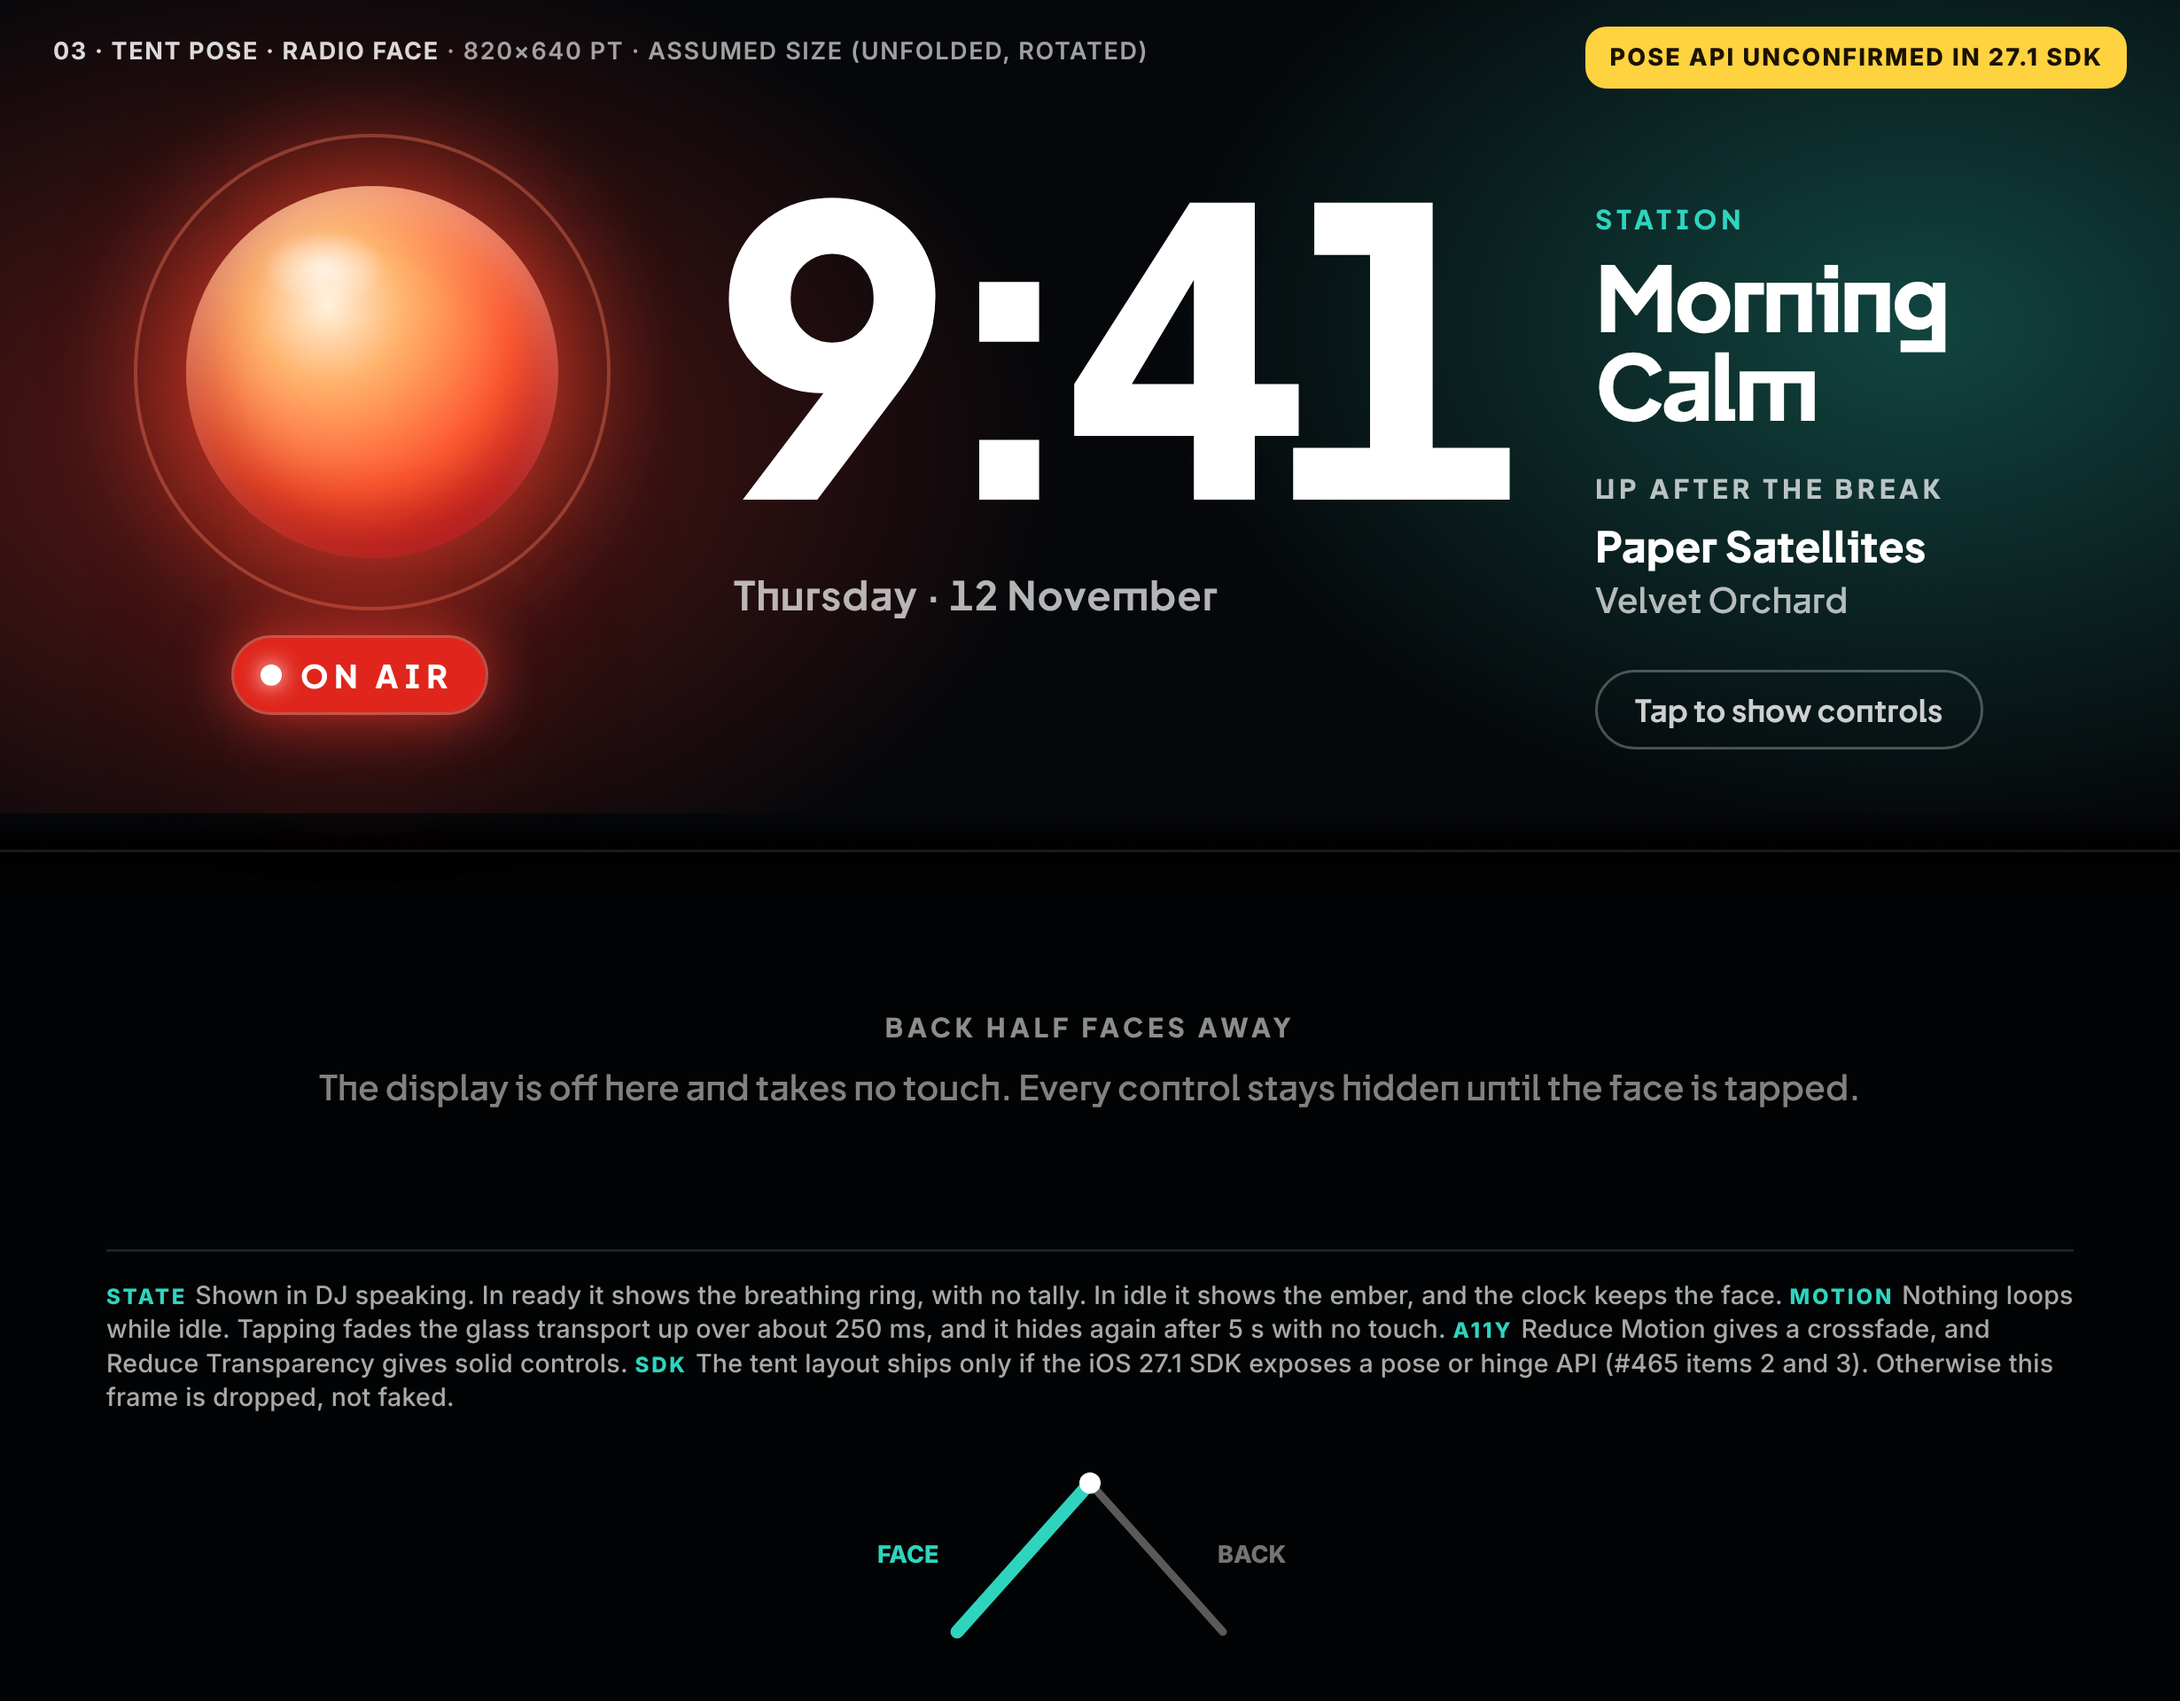
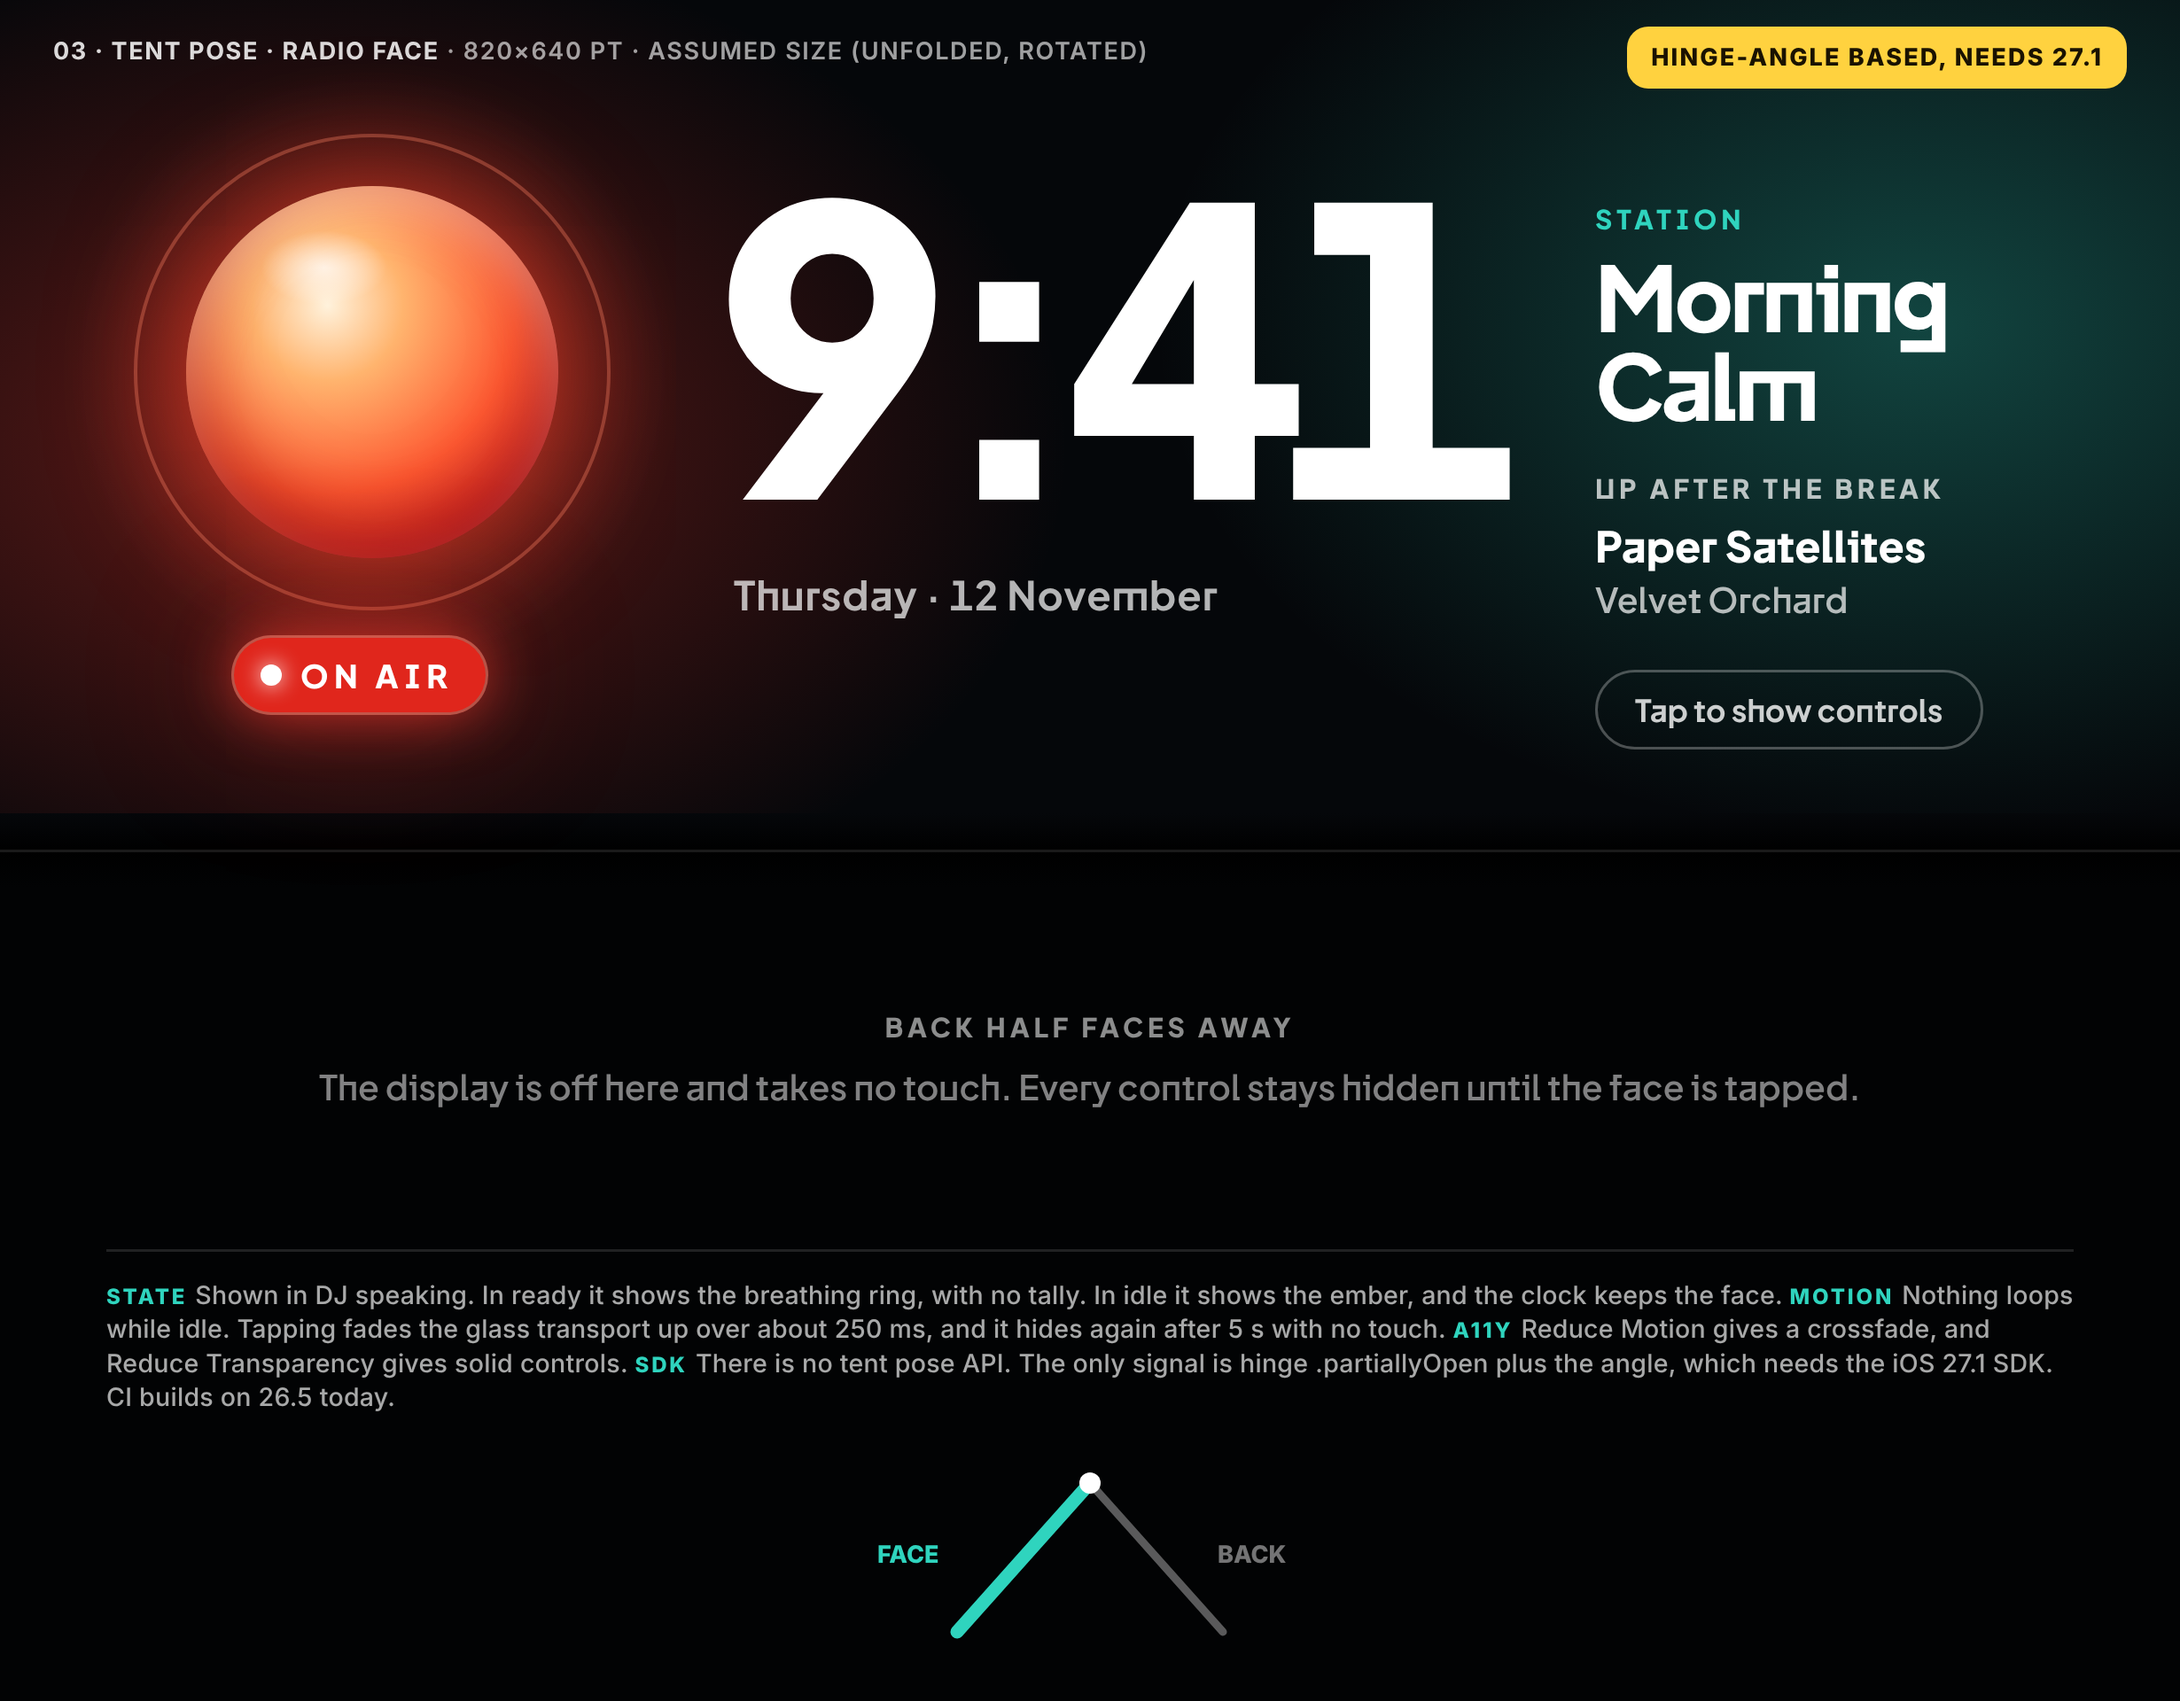
docs(design): #465 relabel tent as hinge-angle based, needs 27.1
Per Fry's SDK check (issuecomment-6842125472): no tent pose API; the
signal is hinge .partiallyOpen plus angle, 27.1 only. CI is on 26.5.
Contact sheet notes the vertical symbol bar also needs 27.1.

-Nova

Changed region(s): [[0.3398, 0.7812, 0.9577, 0.8125], [0.7106, 0.0, 0.9577, 0.0625], [0.0618, 0.8125, 0.2163, 0.8438]]

diff --git a/docs/mockups/465/src/f03.py b/docs/mockups/465/src/f03.py
@@ -5,7 +5,7 @@ b=[f'<div class="a" style="left:0;top:0;width:820px;height:306px;background:radi
    '<div class="a" style="left:0;top:319.5px;width:820px;height:1px;background:rgba(255,255,255,.10)"></div>',
    '<div class="a" style="left:0;top:334px;width:820px;height:306px;background:#020304"></div>',
    f'<div class="cap" style="left:20px;top:14px"><b>03 · Tent pose · radio face</b> · 820×640 pt · assumed size (unfolded, rotated)</div>',
-   f'<div class="flag" style="right:20px;top:10px">Pose API unconfirmed in 27.1 SDK</div>',
+   f'<div class="flag" style="right:20px;top:10px">Hinge-angle based, needs 27.1</div>',
    # orb + tally
    f'<div class="a" style="left:70px;top:70px">{orb("speaking",140)}</div>',
    f'<div class="a" style="left:88px;top:240px"><span class="tally"><i></i>ON AIR</span></div>',
@@ -27,7 +27,7 @@ b=[f'<div class="a" style="left:0;top:0;width:820px;height:306px;background:radi
    f'<span class="k">STATE</span>Shown in DJ speaking. In ready it shows the breathing ring, with no tally. In idle it shows the ember, and the clock keeps the face. '
    f'<span class="k">MOTION</span>Nothing loops while idle. Tapping fades the glass transport up over about 250 ms, and it hides again after 5 s with no touch. '
    f'<span class="k">A11Y</span>Reduce Motion gives a crossfade, and Reduce Transparency gives solid controls. '
-   f'<span class="k">SDK</span>The tent layout ships only if the iOS 27.1 SDK exposes a pose or hinge API (#465 items 2 and 3). Otherwise this frame is dropped, not faked.</div>',
+   f'<span class="k">SDK</span>There is no tent pose API. The only signal is hinge .partiallyOpen plus the angle, which needs the iOS 27.1 SDK. CI builds on 26.5 today.</div>',
    f'<div class="a" style="left:330px;top:548px;width:160px;height:72px"><svg width="160" height="72" viewBox="0 0 160 72" fill="none" stroke-linecap="round">'
    f'<path d="M30 66 L80 10 L130 66" stroke="rgba(255,255,255,.35)" stroke-width="3"/><path d="M30 66 L80 10" stroke="rgb({TEAL})" stroke-width="5"/>'
    f'<circle cx="80" cy="10" r="4" fill="#fff"/><text x="0" y="40" font-family="Inter" font-size="9" font-weight="800" fill="rgb({TEAL})">FACE</text>'

diff --git a/docs/mockups/465/src/sheet.py b/docs/mockups/465/src/sheet.py
@@ -18,7 +18,7 @@ pts=[("Studio, not library","The right half of the unfolded screen is a live stu
      ("Glass on controls only","Liquid Glass is used only on the transport, the tuner, the symbol bar and the tab bar. Content stays solid and high-contrast."),
      ("Fold respected","The 28 pt band at x = 306 to 334 stays empty, and the 56 pt symbol bar sits on the outer edge (FoldedColumnLayout metrics)."),
      ("Lock screen and StandBy","These show station, track and the on-air dot only, redacted by default (privacySensitive), with no script text."),
-     ("Open questions","The folded reskin needs the owner's yes. The tent pose API is unconfirmed in the 27.1 SDK. Folded, tent and lock-screen sizes are assumed.")]
+     ("Open questions","The folded reskin needs the owner's yes. The tent frame is hinge-angle based and needs 27.1. The vertical symbol bar needs 27.1 too, and CI is on 26.5. Folded, tent and lock-screen sizes are assumed.")]
 b+=('<div class="a" style="left:1080px;top:600px;width:600px;display:flex;flex-direction:column;gap:16px">'+"".join(
     f'<div><div style="font-weight:800;font-size:16px">{t}</div><div style="font-size:13px;line-height:1.45;font-weight:500;color:rgba(255,255,255,.72);margin-top:3px">{d}</div></div>' for t,d in pts)+'</div>')
 page("contact-sheet",W,H,b)

diff --git a/docs/mockups/465/README.md b/docs/mockups/465/README.md
@@ -10,7 +10,7 @@ The unfolded frames use the real `FoldedColumnLayout` metrics: 16 pt edge, a 28 
 | `01-folded.png` | Outer screen, compact player (idle, ember) with glass transport and tab bar | 390×844 | **Assumed size.** Reskin needs the owner's yes, because the iPhone path is byte-identical by rule |
 | `02-unfolded-speaking.png` | Unfolded, DJ speaking: hero orb, On Air, SAMPLE caption, art at 0.94 | 640×820 | Measured |
 | `02b-unfolded-ready.png` | Unfolded, DJ ready: ring, "DJ break after this song" in up next, no On Air | 640×820 | Measured |
-| `03-tent.png` | Tent radio face: orb, big clock, station, with controls hidden behind a tap | 820×640 | **Assumed size.** Pose API unconfirmed in the 27.1 SDK |
+| `03-tent.png` | Tent radio face: orb, big clock, station, with controls hidden behind a tap | 820×640 | **Assumed size.** hinge-angle based, needs 27.1 (no tent pose API; hinge .partiallyOpen plus angle, per Fry’s SDK check) |
 | `04-standby.png` | StandBy clock radio, DJ speaking (after Face ID) | 844×390 | **Assumed size** |
 | `04b-standby-redacted.png` | StandBy, default redacted (privacySensitive) | 844×390 | **Assumed size** |
 | `05-live-activity.png` | Lock screen with a redacted Live Activity, plus Dynamic Island compact and expanded specimens | 390×844 | **Assumed size** |
